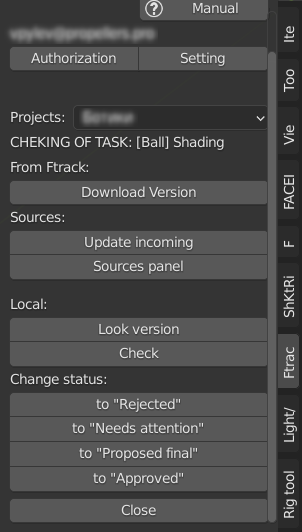
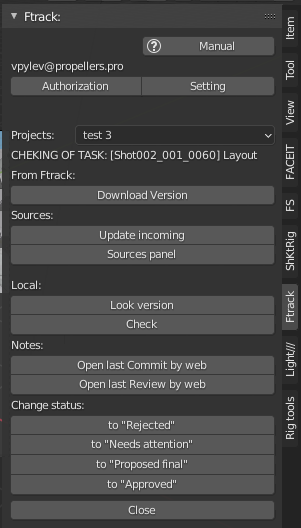
added Notes:

diff --git a/docs/source/manual/check_panel.rst b/docs/source/manual/check_panel.rst
@@ -70,6 +70,31 @@ Check
 .. image:: ../_static/images/check_window.png
 
 
+
+.. _check_panel_notes:
+
+Notes:
+------
+
+`(видео) <https://disk.yandex.ru/i/MtyEkV2XoRr3VQ>`_
+
+
+.. _check_panel_open_last_commit_by_web:
+
+Open last Commit by web
+~~~~~~~~~~~~~~~~~~~~~~~
+
+:guilabel:`Open last Commit by web` - Открывает обзор последней версии коммита ассета в вёб браузере.
+
+
+.. _check_panel_open_last_review_by_web:
+
+Open last Review by web
+~~~~~~~~~~~~~~~~~~~~~~~
+
+:guilabel:`Open last Review by web` - Открывает обзор последней версии ревью ассета в вёб браузере.
+
+
 .. _check_panel_change_status:
 
 Change status:

diff --git a/docs/source/manual/work_panel.rst b/docs/source/manual/work_panel.rst
@@ -67,6 +67,31 @@ Open task folder
 
 .. _work_panel_textures:
 
+
+.. _work_panel_notes:
+
+Notes:
+------
+
+`(видео) <https://disk.yandex.ru/i/MtyEkV2XoRr3VQ>`_
+
+
+.. _work_panel_open_last_commit_by_web:
+
+Open last Commit by web
+~~~~~~~~~~~~~~~~~~~~~~~
+
+:guilabel:`Open last Commit by web` - Открывает обзор последней версии коммита ассета в вёб браузере.
+
+
+.. _work_panel_open_last_review_by_web:
+
+Open last Review by web
+~~~~~~~~~~~~~~~~~~~~~~~
+
+:guilabel:`Open last Review by web` - Открывает обзор последней версии ревью ассета в вёб браузере.
+
+
 Textures:
 ---------
 
